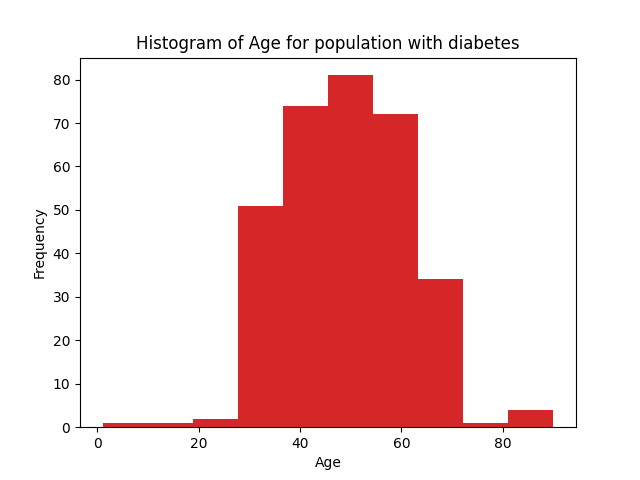
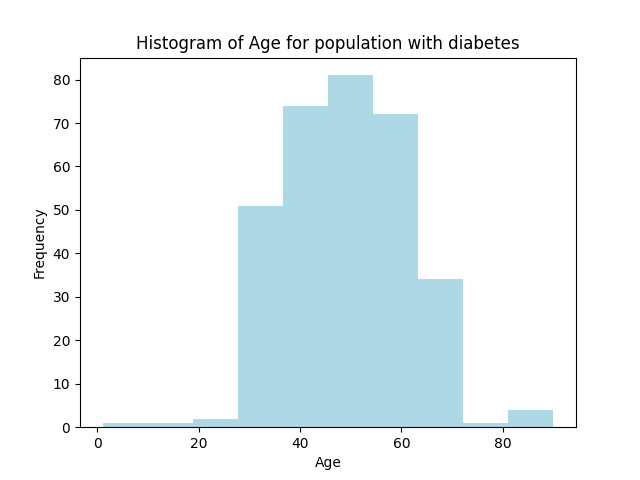
did some ornament work

Changed region(s): [[0.1562, 0.1562, 0.875, 0.9062]]

diff --git a/myapp/diabetes/static/diabetes/style.css b/myapp/diabetes/static/diabetes/style.css
@@ -31,9 +31,18 @@ body {
     margin:10px;
 }
 
-.button {
-    font-size: 20px;
-}
+button {
+    background-color: BurlyWood;
+    width: 100px; 
+    height: 40px; 
+    font-family: sans-serif;
+    margin-top: 20px;
+    box-shadow: 0 2px 4px rgba(0,0,0,0.2);
+    border: none;
+    font-weight: bold;
+    color:lightyellow;
+    font-size: large;
+  }
 
 .content {
     font-size: 30px;
@@ -60,4 +69,116 @@ form {
 .negative {
     font-size: 20px;
     color: lightgreen;
+}
+
+.footer {
+    position: absolute;
+    bottom: 0;
+    width: 100%;
+    height: 5rem; 
+    background-color: #008080;
+
+
+
+    display: flex;
+    align-items: center; /* align items vertically */
+    justify-content: center; /* align items horizontally */
+    flex-direction: column;
+    background-color: #008080;
+    text-align: center;
+}
+
+.container {
+  position: relative;
+  min-height: 100vh;
+}
+
+#content-wrap {
+    padding-bottom: 2.5rem;    /* Footer height */
+}
+
+header {
+    height: 5rem;
+    display: flex;
+    justify-content: space-between;
+    align-items: center;
+    background-color: #008080;
+    color: #fff;
+    padding: 10px;
+    box-shadow: 0 0 10px rgba(0,0,0,0.5);
+    margin-bottom: 2.5rem;
+}
+
+.logo {
+    font-size: 40px;
+    font-weight: bold;
+}
+
+.menu {
+    display: flex;
+    align-items: center;
+    font-size: large;
+}
+
+.dropdown {
+    position: relative;
+    right: 100px;
+    bottom: 0px;
+}
+
+.dropdown-content {
+    display: none;
+    position: absolute;
+    top: 100%;
+    left: -45%;
+    background-color: #f9f9f9;
+    min-width: 160px;
+    box-shadow: 0 2px 4px rgba(0,0,0,0.2);
+    font-family: sans-serif;
+    font-size: large;
+    font-weight: bold;
+    color: #333;
+}
+
+.dropdown:hover .dropdown-content {
+    display: block;
+}
+
+.dropdown-content a {
+    color: #333;
+    padding: 10px;
+    text-decoration: none;
+    display: block;
+}
+
+#menutext {
+    font-size: xx-large;
+    font-family: 'Gill Sans', 'Gill Sans MT', Calibri, 'Trebuchet MS', sans-serif;
+    color:#fff;
+}
+
+#welcome {
+    position: absolute; /* Set position property to absolute */
+    top: 0; /* Set top position to 0 */
+    left: 0; /* Set left position to 0 */
+    width: 100%; /* Set width to 100% */
+    height: 100%; /* Set height to 100% */
+    object-fit: cover;
+}
+
+#reset {
+    left:50px;
+    position: relative;
+    top: -60px;
+    background-color:brown;
+}
+
+#res {
+    text-decoration: none;
+}
+#res:visited {
+    font-weight: bold;
+    color:lightyellow;
+    font-size: large;
+    text-decoration: none;
 }

diff --git a/myapp/diabetes/templates/diabetes/welcome.html b/myapp/diabetes/templates/diabetes/welcome.html
@@ -1,0 +1,87 @@
+<!DOCTYPE html>
+<html>
+  <head>
+    <meta charset="utf-8">
+    {% load static %}
+    <title>Welcome page</title>
+    <style>
+      body {
+        background-image: url("/static/welcome_background.jpeg");
+        background-size: cover;
+        background-position: center;
+        font-family: Arial, sans-serif;
+      }
+      .container {
+        display: flex;
+        flex-direction: column;
+        justify-content: center;
+        align-items: flex-start;
+        height: 100vh;
+        backdrop-filter: blur(5px);
+      }
+      h1 {
+        font-size: 6em;
+        font-weight: bold;
+        color: white;
+        text-shadow: 2px 2px 4px rgba(0, 0, 0, 0.5);
+        margin: 0;
+        padding-left: 20px;
+      }
+
+      h2 {
+        font-size: 2em;
+        font-weight: bold;
+        color: white;
+        text-shadow: 2px 2px 4px rgba(0, 0, 0, 0.5);
+        margin: 10px;
+        padding-left: 20px;
+      }
+
+      footer {
+        background-color: #222;
+        color: white;
+        text-align: center;
+        padding: 10px;
+        position: absolute;
+        bottom: 0;
+        width: 100%;
+      }
+
+      button {
+        background-color: BurlyWood;
+        width: 150px; 
+        height: 50px; 
+        font-family: sans-serif;
+        margin-left: 40px;
+        margin-top: 20px;
+        box-shadow: 0 2px 4px rgba(0,0,0,0.2);
+        border: none;
+        font-weight: bold;
+        color:lightyellow;
+        font-size: large;
+      }
+      a {
+        text-decoration: none;
+      }
+      a:visited {
+        font-weight: bold;
+        color:lightyellow;
+        font-size: large;
+        text-decoration: none;
+      }
+    </style>
+  </head>
+  <body>
+    <div class="container">
+      <h1>Early-Stage Diabetes Diagnosis</h1>
+      <h2>Group member: Jingchen Fu & Benjamin Zhong</h2>
+      <button><a href="{% url 'about' %}">Get demo</a></button>
+    </div>
+    <footer>
+        <div>&copy; 2023 Healthcare Web Application. All rights reserved. | 
+            Privacy Policy | 
+            Terms of Service
+        </div>
+    </footer>
+  </body>
+</html>

diff --git a/myapp/diabetes/templates/diabetes/base.html b/myapp/diabetes/templates/diabetes/base.html
@@ -8,22 +8,38 @@
 	</head>
 
 	<body>
-		<div class="header" id="id_header_div">
-			<h2 class="sitename">Early-Stage Diabetes Prediction System</h2>
+		<div class="container">
+			<div id="content-wrap">
+				<header>
+					<div class="logo">Early-Stage Diabetes Diagnosis</div>
+					<nav class="menu">
+					  <div class="dropdown">
+						<p id="menutext">Menu</p>
+						<div class="dropdown-content">
+						  <a href="{% url 'about' %}">About</a>
+						  <a href="{% url 'new_record' %}">New Record</a>
+						  <a href="{% url 'predict' %}">Prediction</a>
+						  <a href="{% url 'statistics' %}">statistics</a>
+						</div>
+					  </div>
+					</nav>
+				  </header>
+		
+				<h1 class="pagename" id="id_page_name"> {% block pagename %} Base {% endblock %}</h1>
+		
+				<div class="content">
+					{% block content %}
+					{% endblock %}
+					
+				</div>
+			</div>
+			
+			<div class="footer">
+				<div>&copy; 2023 Healthcare Web Application. All rights reserved. | 
+					<a href="#">Privacy Policy</a> | 
+					<a href="#">Terms of Service</a>
+				</div>				
+			</div>
 		</div>
-		<div class="links">
-			<a href="{% url 'about' %}" id="id_about"><button class="button">About</button></a>
-			<a href="{% url 'new_record' %}" id="id_new_record"><button class="button">New Record</button></a>
-			<a href="{% url 'predict' %}" id="id_predict"><button class="button">Prediction</button></a>
-			<a href="{% url 'statistics' %}" id="id_statistics"><button class="button">Statistics</button></a>
-		</div>
-
-        <h1 class="pagename" id="id_page_name"> {% block pagename %} Base {% endblock %}</h1>
-
-        <div class="content">
-		    {% block content %}
-		    {% endblock %}
-		</div>
-        
 	</body>
 </html>

diff --git a/myapp/diabetes/templates/diabetes/predict.html b/myapp/diabetes/templates/diabetes/predict.html
@@ -20,6 +20,8 @@
     <button type="submit">Predict</button>
 </form>
 
+<button id="reset"><a href="{% url 'predict' %}" id="res">Reset</a></button>
+
 {% if message == "no potential diabetes" %} 
 <p class="negative">{{message}}</p>
 {% elif message == "potential diabetes"%}

diff --git a/myapp/diabetes/templates/diabetes/newrecord.html b/myapp/diabetes/templates/diabetes/newrecord.html
@@ -4,7 +4,7 @@
 
 {% block content %}
 
-<form method="post" action="{% url 'new_record' %}">
+<form method="post" action="{% url 'new_record' %}" style="font-size: large;">
     <table>
         {% for field in form.visible_fields %}
             <tr>

diff --git a/myapp/diabetes/views.py b/myapp/diabetes/views.py
@@ -5,8 +5,8 @@ from diabetes.forms import VitalsForm, PredictionForm
 from diabetes.lr_offline import save_record, to_csv, logistic_regression, predict, stat_plots
 
 # Create your views here.
-def home_action(request):
-    return render(request, 'diabetes/base.html', {})
+def welcome_action(request):
+    return render(request, 'diabetes/welcome.html', {})
 
 def about_action(request):
     return render(request, 'diabetes/about.html', {})
@@ -102,8 +102,6 @@ def predict_action(request):
 
         y_predict = predict(patient_info)[0]
 
-        # Create new instance of the form to clear it
-        form = PredictionForm()
         context['form'] = form
         context['message'] = "no potential diabetes" if y_predict == 0 else "potential diabetes"
 

diff --git a/myapp/diabetes/urls.py b/myapp/diabetes/urls.py
@@ -2,7 +2,7 @@ from django.urls import path
 from diabetes import views
 
 urlpatterns = [
-    path('', views.home_action, name='home'),
+    path('', views.welcome_action, name='welcome'),
     path('about', views.about_action, name='about'),
     path('newrecord', views.new_record_action, name='new_record'),
     path('predict', views.predict_action, name='predict'),

diff --git a/myapp/diabetes/lr_offline.py b/myapp/diabetes/lr_offline.py
@@ -168,7 +168,7 @@ def stat_plots(dataset=dataset_file_path):
         df_class1 = df[df['class'] == 1]
 
         # Create a histogram of Age
-        plt.hist(df_class1['Age'], bins=10)
+        plt.hist(df_class1['Age'], bins=10, color='lightblue')
 
         # Add x and y axis labels and a title
         plt.xlabel('Age')
